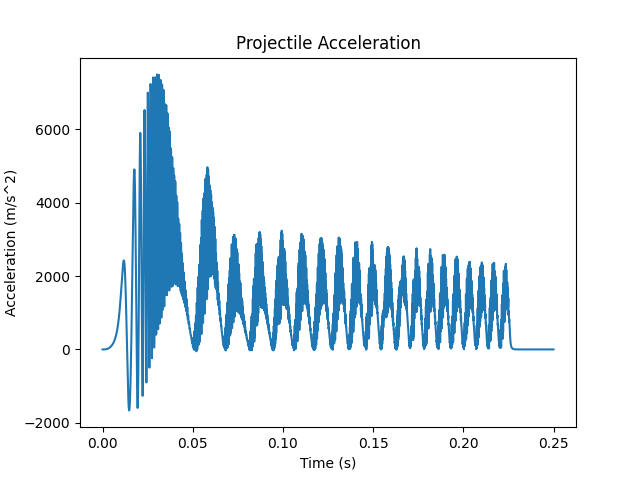
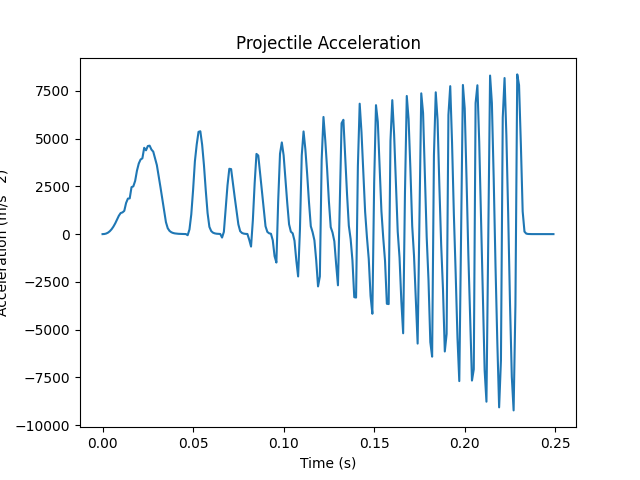
Conceptual updates

diff --git a/Simulation/main_conceptual.py b/Simulation/main_conceptual.py
@@ -32,14 +32,14 @@ stage_count = 20
 stage_list = []
 
 # Material, inner radius, length, layers, wire diameter:
-armature = classes.Coil(copper, 0.33, 2, 1, 0.025)
+armature = classes.Coil(copper, 0.33, 1, 1, 0.025)
 # Coil, initial position, mass
 projectile = classes.Projectile(armature, 0.05, 1250)
 
 # Material, inner radius, length, layers, wire diameter:
-drivers = [classes.Coil(copper, 0.35, 2, 1, 0.025) for i in range(stage_count)]
+drivers = [classes.Coil(copper, 0.35, 1, 1, 0.025) for i in range(stage_count)]
 # Coil, position, trigger position, capacitance, charge voltage
-stages = [classes.Stage(drivers[j], 2.0 * j, 2.0 * j, 0.02, 50000) for j in range(stage_count)]
+stages = [classes.Stage(drivers[j], 2.0 * j, 1.95 * j, 0.02, 50000) for j in range(stage_count)]
 
 stages[0].capacitance = 0.075
 stages[0].layers = 3
@@ -55,7 +55,7 @@ driver_energy_sum = 0.
 driver_total_energy = []
 
 runtime = 0.25
-timestep = 0.0001
+timestep = 0.001
 
 for step in np.arange(0, runtime, timestep):
     # Timestep, driver list, projectile

diff --git a/Simulation/methods.py b/Simulation/methods.py
@@ -74,7 +74,7 @@ def solve_stresses(coil):
 
     for r in np.arange(a1, a2, w):
         rho = r / a1
-        J = coil.current / coil.wire_area
+        J = coil.current / (coil.wire_area * coil.turns / coil.layers)
         B1 = parameters.mu0 * J * a1 * (alpha - 1)
         B2 = 0
 
